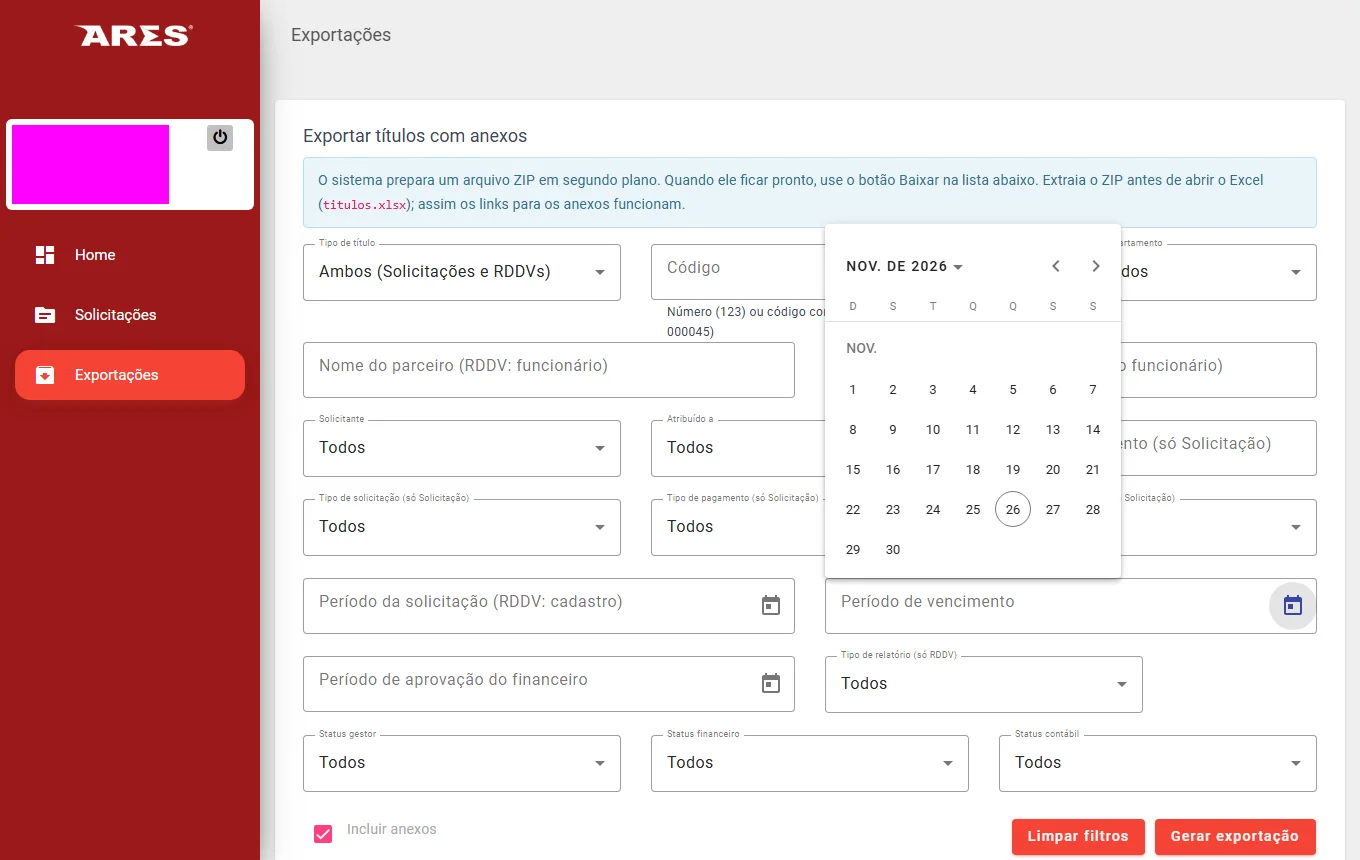
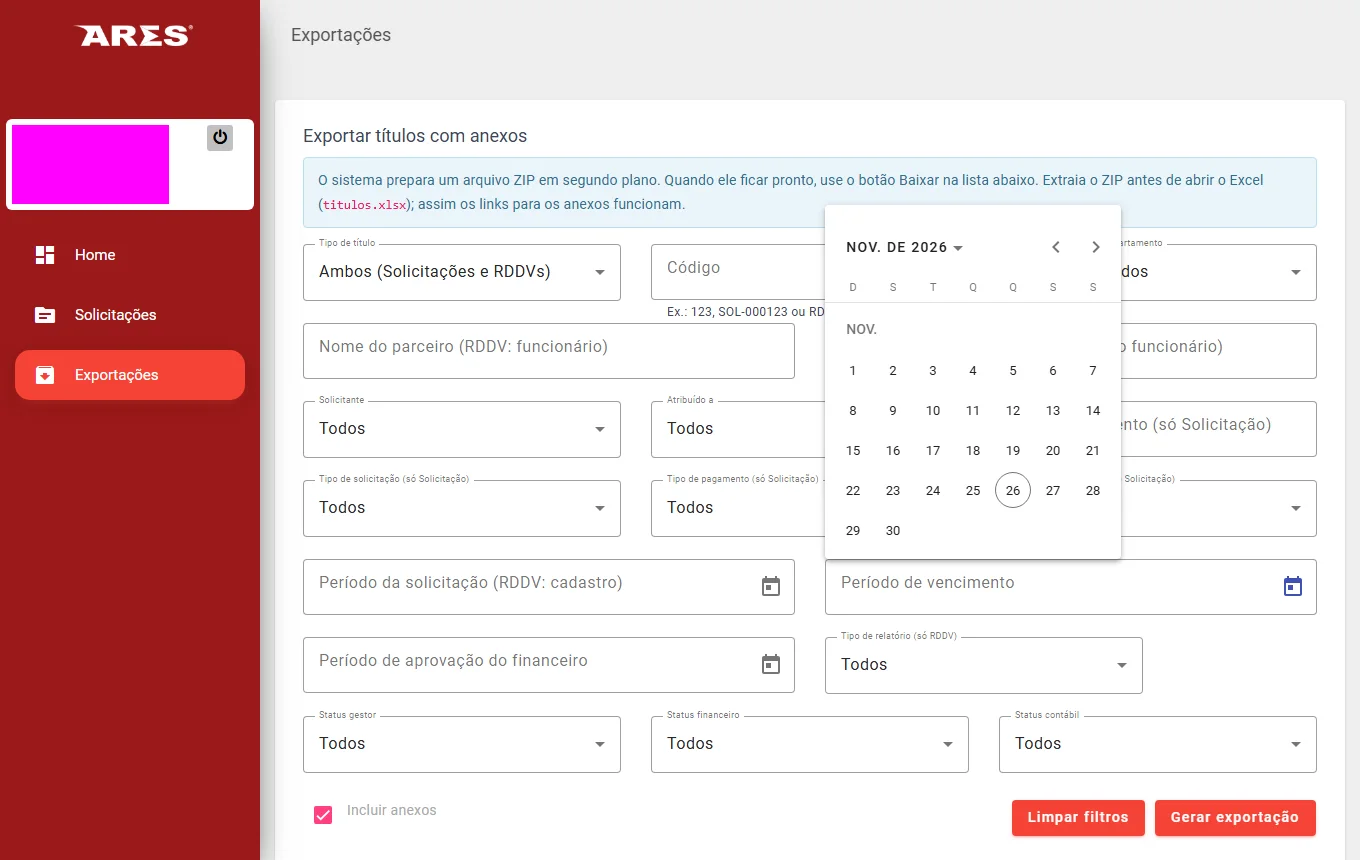
docs: recaptura do manual de exportações e capturas.json com as fotos novas

diff --git a/e2e-docs/e2e/manual/g2-fontes/montar-paginas.ts b/e2e-docs/e2e/manual/g2-fontes/montar-paginas.ts
@@ -171,7 +171,7 @@ tr.primeira td{border-bottom:2px solid #217346}
   nomes.forEach((nome, i) => writeFileSync(join(pastaSaida, `${nome}.html`), paginaDePlanilha("titulos.xlsx", titulos.abas, i, 16, nome === "planilha-anexos" ? 0.77 : 1)));
 
   const pagamentos = JSON.parse(readFileSync(join(pastaDados, "pagamentos.json"), "utf8")) as { abas: Aba[] };
-  writeFileSync(join(pastaSaida, "pagamentos.html"), paginaDePlanilha("Pagamentos.xlsx", pagamentos.abas, 0, 12));
+  writeFileSync(join(pastaSaida, "pagamentos.html"), paginaDePlanilha("Pagamentos.xlsx", pagamentos.abas, 0, 12, 0.92));
 }
 
 // ---------- Arquivos de texto (indice.csv, indice.json, LEIA-ME.txt) ----------

diff --git a/e2e-docs/e2e/manual/g2-fontes/paginas/pagamentos.html b/e2e-docs/e2e/manual/g2-fontes/paginas/pagamentos.html
@@ -8,7 +8,7 @@ body{padding:20px}
 .titulo b{font-weight:600}
 .mono{font-family:Consolas,"Cascadia Mono","Courier New",monospace}
 .janela{width:1320px}
-.grade{overflow:hidden;width:1318px;zoom:1;font-family:Calibri,"Segoe UI",Arial,sans-serif;font-size:13.5px}
+.grade{overflow:hidden;width:1433px;zoom:0.92;font-family:Calibri,"Segoe UI",Arial,sans-serif;font-size:13.5px}
 table{border-collapse:collapse;table-layout:fixed;width:1410px}
 td,th{height:20px;line-height:19px;padding:0 4px;border:1px solid #d4d4d4;white-space:nowrap;overflow:hidden;text-overflow:clip;text-align:left}
 th{background:#f0f0f0;color:#444;font-weight:400;text-align:center;padding:0}

diff --git a/docs/manual/exportacoes/fontes/achados.md b/docs/manual/exportacoes/fontes/achados.md
@@ -32,9 +32,9 @@ A tabela vem do M1 (linhas 1 a 12) e da revisão M6 (linhas 13 em diante). O man
 | pagamentos | nova (M9): a falha ao gerar a chave do "Exportar planilha" mostra "Não foi possível gerar o token de visualização.", com o termo interno "token" | front-end/src/app/payments/payments.component.ts:295 | front-end |
 | pagamentos | nova (M9): o campo "Código" da tela de pagamentos tem o mesmo rótulo do formulário de exportação, mas só aceita o número (inteiro) e não tem dica; no formulário de exportação o mesmo rótulo aceita também SOL-000123 e RDDV-000045 | front-end/src/app/payments/payments.component.html:17 a :26; back-end/Ares.PagueAres.API/Controllers/ListingController.cs:149 a :151; front-end/src/app/exportacoes/exportacoes.component.html:27 a :39 | produto / front-end |
 | pacote-leia-me | nova (M9): pelo código, os filtros de solicitante, atribuído e departamento saem pelo número (Id), não pelo nome ("Solicitante (Id do usuário): 12"); quem lê o LEIA-ME não tem como saber quem é | back-end/Ares.PagueAres.Application/Exportacao/GeradorPacoteExportacao.cs:322 a :324 | produto / back-end |
-| pagamentos | nova (M4): na lista da aba Financeiro/Contábil, as linhas de RDDV mostram "#" em "Nº do documento" e em "Parceiro" (foto pagamentos-botao-exportar, linha do código 763); o Pagamentos.xlsx já deixa o número do documento vazio nessas linhas | back-end/Ares.PagueAres.Infrastructure/Migrations/20260530193851_InitialCreate.cs:443 e :446 (view); front-end/src/app/payments/payments.component.html:482 e :484 | produto / front-end |
-| exportacoes | nova (M4): a dica do campo "Código" ("Número (123) ou código com prefixo (SOL-000123, RDDV-000045)") quebra em duas linhas a 1360 px, com "RDDV-" numa linha e "000045)" na seguinte (foto exportacoes-formulario-padrao); lê-se inteira, mas o código do exemplo fica partido | front-end/src/app/exportacoes/exportacoes.component.html:37 (coluna em :26) | front-end |
-| exportacoes | nova (M4): a linha Excluída continua mostrando o Tamanho do arquivo que foi apagado (foto exportacoes-lista-excluida: "158,2 MB" ao lado de Excluída); quem lê pode achar que o arquivo ainda existe | front-end/src/app/exportacoes/exportacoes.component.html:336 | produto / front-end |
+| pagamentos | nova (M4), corrigida (commits 09c2c65 e 7b102e8; recapturada em M4, fotos pagamentos-botao-exportar e pagamentos-sem-botao-exportar: as linhas de RDDV ficam com Nº do documento e Descrição vazios e o Parceiro mostra o nome do solicitante): na lista da aba Financeiro/Contábil, as linhas de RDDV mostravam "#" em "Nº do documento" e em "Parceiro" (foto pagamentos-botao-exportar, linha do código 763); o Pagamentos.xlsx já deixa o número do documento vazio nessas linhas | back-end/Ares.PagueAres.Infrastructure/Migrations/20260530193851_InitialCreate.cs:443 e :446 (view); front-end/src/app/payments/payments.component.html:482 e :484 | produto / front-end |
+| exportacoes | nova (M4), corrigida (commit 09c2c65; foto exportacoes-formulario-padrao: a dica agora é "Ex.: 123, SOL-000123 ou RDDV-000045" e cabe em uma linha a 1360 px): a dica do campo "Código" ("Número (123) ou código com prefixo (SOL-000123, RDDV-000045)") quebrava em duas linhas a 1360 px, com "RDDV-" numa linha e "000045)" na seguinte (foto exportacoes-formulario-padrao); lê-se inteira, mas o código do exemplo fica partido | front-end/src/app/exportacoes/exportacoes.component.html:37 (coluna em :26) | front-end |
+| exportacoes | nova (M4), corrigida (commit 09c2c65; foto exportacoes-lista-excluida: a coluna Tamanho da Excluída mostra "—"): a linha Excluída continuava mostrando o Tamanho do arquivo que foi apagado (foto exportacoes-lista-excluida: "158,2 MB" ao lado de Excluída); quem lê pode achar que o arquivo ainda existe | front-end/src/app/exportacoes/exportacoes.component.html:336 | produto / front-end |
 
 ## Conclusões sobre as duas candidatas do orquestrador
 
